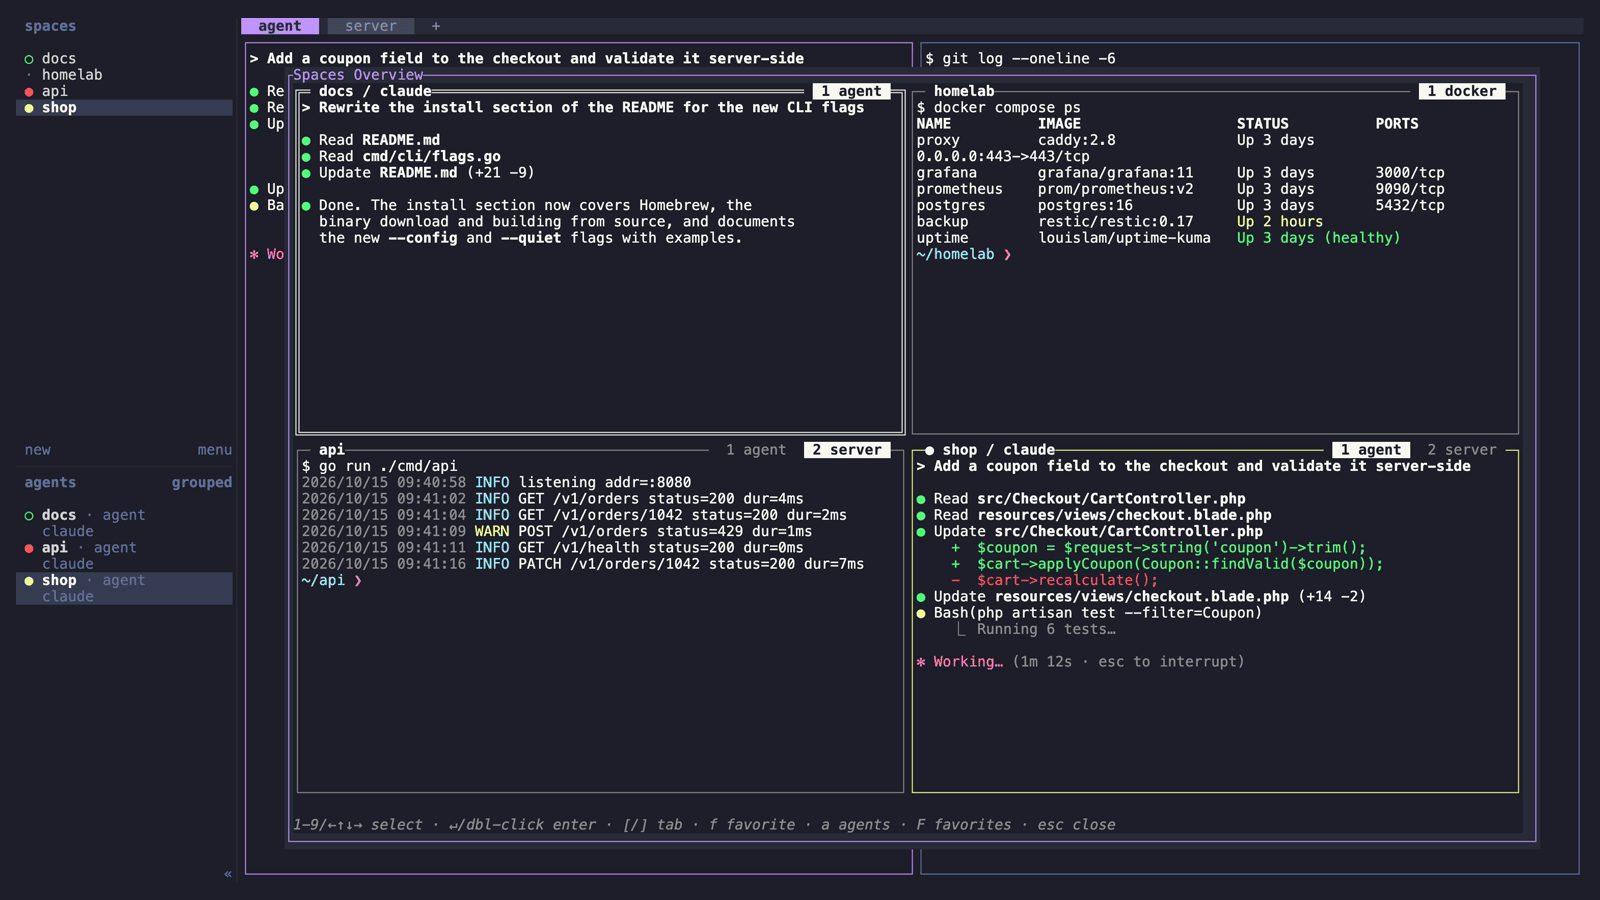
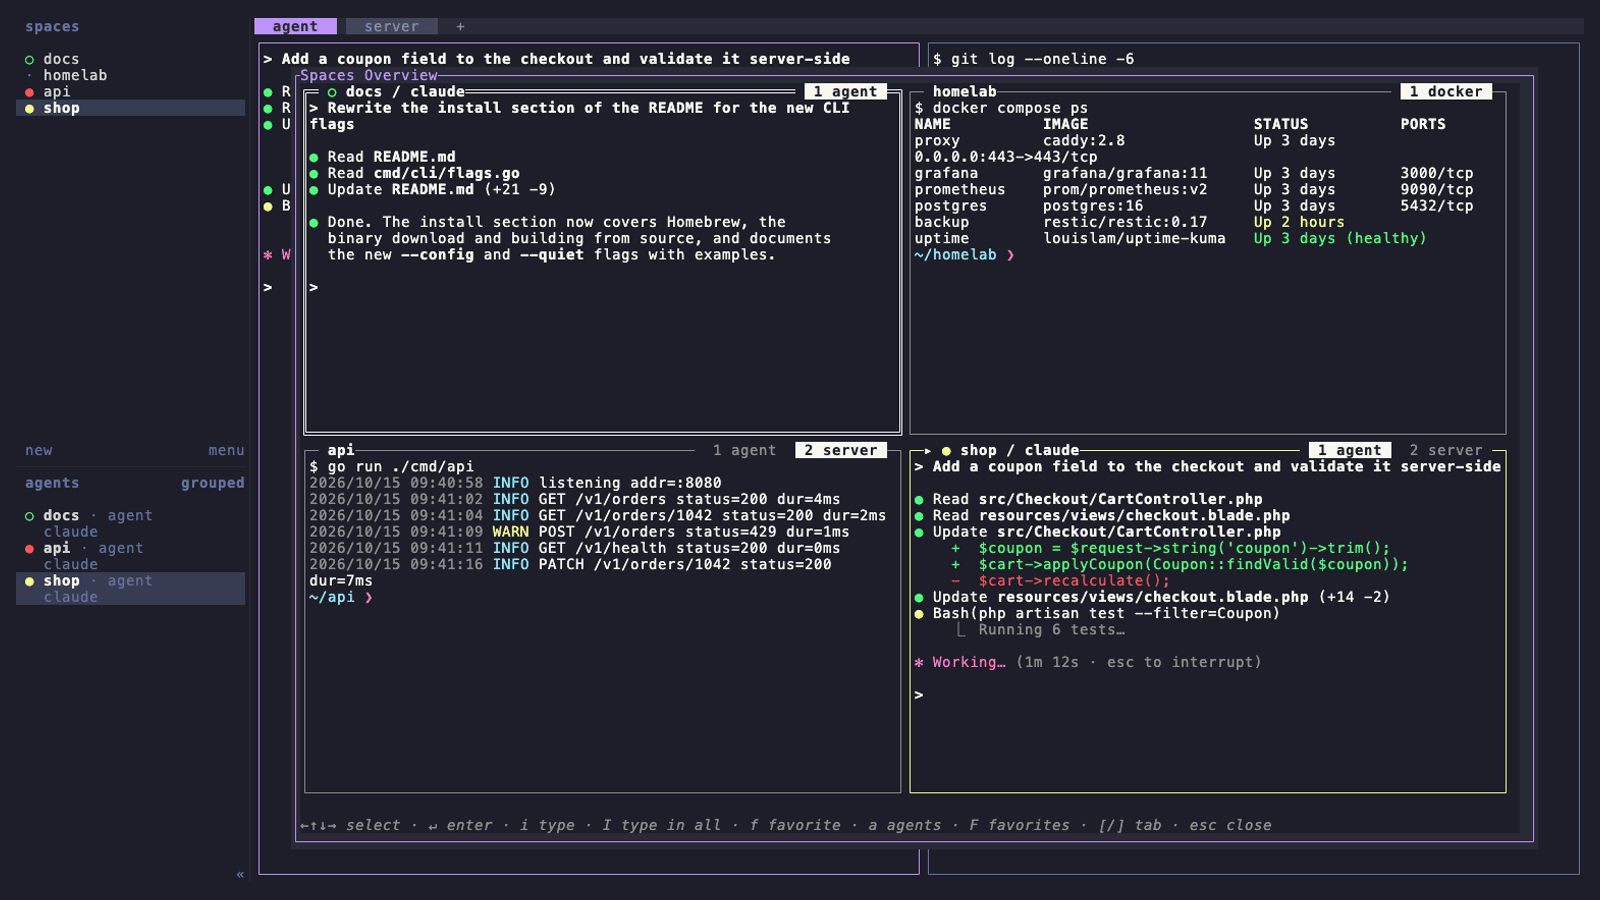
Show the agent state as herdr's sidebar dots instead of [state] text

diff --git a/lib/render.js b/lib/render.js
@@ -267,11 +267,18 @@ function compactLines(grid, width) {
   return out;
 }
 
+// agent state like herdr's sidebar dots: filled = needs a look, hollow = idle
+const STATUS_ICONS = {
+  blocked: { ch: "●", fg: { kind: "ansi", n: 1 } },
+  working: { ch: "●", fg: { kind: "ansi", n: 3 } },
+  done: { ch: "●", fg: { kind: "ansi", n: 6 } },
+  idle: { ch: "○", fg: { kind: "ansi", n: 2 } },
+};
 // border colour per agent state: where you are needed, what is running
 const STATUS_COLORS = {
-  blocked: { kind: "ansi", n: 1 },
-  working: { kind: "ansi", n: 3 },
-  done: { kind: "ansi", n: 2 },
+  blocked: STATUS_ICONS.blocked.fg,
+  working: STATUS_ICONS.working.fg,
+  done: STATUS_ICONS.done.fg,
 };
 
 const BORDER = {
@@ -300,18 +307,23 @@ function drawTileFrame(screen, rect, opts) {
 
   // header: " ● API / codex " fitted into the top border
   let label = opts.label || "";
-  const maxLen = rect.w - 4;
+  const maxLen = rect.w - 4 - (opts.active ? 1 : 0) - (STATUS_ICONS[opts.status] ? 2 : 0);
   if (label.length > maxLen) label = label.slice(0, maxLen);
   const labelAttrs = { bold: true, dim: false, underline: false, reverse: false };
   if (label && maxLen > 1) {
     const lx = rect.x + 2;
     // carve space in the top border for the label
-    for (let x = lx; x < lx + label.length + 1 && x < rect.x + rect.w - 1; x++) {
+    const extra = (opts.active ? 1 : 0) + (STATUS_ICONS[opts.status] ? 2 : 0);
+    for (let x = lx; x < lx + label.length + 1 + extra && x < rect.x + rect.w - 1; x++) {
       screen.put(x, rect.y, { ...defaultCell(), ch: style.h, ...attrs });
     }
     let cx = lx;
     if (opts.active) {
-      cx = screen.putText(cx, rect.y, "●", { ...labelAttrs });
+      cx = screen.putText(cx, rect.y, "▸", { ...labelAttrs });
+    }
+    const icon = STATUS_ICONS[opts.status];
+    if (icon) {
+      cx = screen.putText(cx, rect.y, ` ${icon.ch}`, { ...labelAttrs, fg: icon.fg });
     }
     screen.putText(cx, rect.y, label ? ` ${label}` : "", labelAttrs);
   }

diff --git a/bin/overview.js b/bin/overview.js
@@ -827,10 +827,8 @@ function baseLabel(tile) {
     const parts = [];
     if (config.show_space_name) parts.push(tile.tabLabel ? `${tile.label} › ${tile.tabLabel}` : tile.label);
     if (config.show_pane_label) parts.push(tile.paneLabel || tile.paneAgent);
-    const label = parts.filter(Boolean).join(" · ");
-    // status first so narrow tiles truncate the names, not the state
-    const status = tile.agentStatus && tile.agentStatus !== "unknown" ? `[${tile.agentStatus}]` : "";
-    return [status, label].filter(Boolean).join(" ");
+    // the agent state is drawn as a coloured dot in front of the label
+    return parts.filter(Boolean).join(" · ");
   }
   let label = config.show_space_name ? tile.label : "";
   if (config.show_pane_label && tile.paneLabel) {

diff --git a/test/render.test.js b/test/render.test.js
@@ -154,3 +154,11 @@ test("compact view wraps at word boundaries", () => {
   const grid = parseAnsi("the quick brown fox");
   assert.deepEqual(compactLines(grid, 10).map(lineText), ["the quick", "brown fox"]);
 });
+
+test("agent state shows as a sidebar-style dot before the label", () => {
+  const screen = new Screen(30, 4);
+  drawTileFrame(screen, { x: 0, y: 0, w: 30, h: 4 }, { label: "api", selected: false, active: false, status: "done" });
+  assert.equal(screen.buf[0][3].ch, "●");
+  assert.deepEqual(screen.buf[0][3].fg, { kind: "ansi", n: 6 });
+  assert.equal(lineText(screen.buf[0].slice(5, 8)), "api");
+});

diff --git a/README.md b/README.md
@@ -4,18 +4,18 @@ Mission Control for [herdr](https://herdr.dev): a live, tiled overview of all yo
 
 ![The overview: one live tile per space, showing the focused pane of its active tab with real colors](docs/screenshots/overview.png)
 
-Each tile mirrors the *actual* terminal content of a pane, with colors and styling, updated about four times per second. It is not a summary or a status card. To fit more into a tile, blank rows are collapsed and long lines wrap. The border shows the agent state at a glance: **red** waits for you (blocked), **yellow** is working, **green** is done. The overview is read-only: your spaces are never moved, resized or refocused.
+Each tile mirrors the *actual* terminal content of a pane, with colors and styling, updated about four times per second. It is not a summary or a status card. To fit more into a tile, blank rows are collapsed and long lines wrap. The agent state shows like in herdr's sidebar, as a dot in the tile header and as the border color: **red** ● waits for you (blocked), **yellow** ● is working, **teal** ● is done, ○ is idle. The overview is read-only: your spaces are never moved, resized or refocused.
 
 ## Filters
 
 | Key | View |
 |---|---|
-| `a` | **Agents**: one tile per agent pane across all spaces and tabs, also agents in background tabs. The header shows the agent state first (`[working]`, `[blocked]`, `[done]`, …). |
+| `a` | **Agents**: one tile per agent pane across all spaces and tabs, also agents in background tabs. |
 | `F` | **Favorites**: one tile per pane you marked with `f`, across all spaces and tabs. |
 
 Press the same key again to get back to all spaces. The overview remembers the last filter and your favorites for the next time you open it. Closed panes drop out of the favorites.
 
-![The agents filter: three agents from different spaces: one waiting for approval (red), one working (yellow) and marked as a favorite](docs/screenshots/agents.png)
+![The agents filter: three agents from different spaces: one waiting for approval (red), one working (yellow) and marked as a favorite, one idle](docs/screenshots/agents.png)
 
 ## Typing into panes
 
